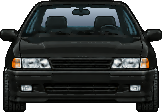
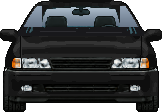
Vetor GSi: frente limpa em qualquer cor
A arte é de um carro preto: riscos de reflexo no capô, manchas na base do para-brisa, vincos
tracejados e o vidro lateral riscado nas colunas só sumiam no preto. Base do para-brisa vira
plástico preto com as palhetas, vidro lateral liso, lataria em superfícies lisas (mediana e
poucos tons) mantendo as linhas horizontais e os vincos do capô contínuos.

Claude-Session: https://claude.ai/code/session_01MLD9VR7gkmY4w6a9beZcp6

diff --git a/tools/ref/vectra_front_fix.py b/tools/ref/vectra_front_fix.py
@@ -1,0 +1,100 @@
+"""Frente do Vetor GSi limpa para qualquer cor (depois de vectra_sprites.py): a arte é de um carro
+preto e os reflexos dela (riscos no capô, manchas na base do para-brisa, vincos tracejados, o
+vidro lateral visto pelas colunas) somem no preto mas viram rabiscos em outra cor.
+- base do para-brisa (limpadores): plástico preto, fora da pintura
+- vidro lateral entre as colunas: vidro, fora da pintura
+- lataria: superfície lisa em poucos tons (mediana + faixas), mantendo as linhas horizontais
+  longas (borda do capô, para-choque) e os vincos do capô contínuos
+
+Uso: python3 tools/ref/vectra_front_fix.py src/assets/cars
+"""
+import os
+import sys
+
+import cv2
+import numpy as np
+from PIL import Image
+
+
+def main():
+    d = sys.argv[1]
+    fp, fm = os.path.join(d, 'br-vectra-front.png'), os.path.join(d, 'br-vectra-front-mask.png')
+    a = np.array(Image.open(fp).convert('RGBA'))
+    m = np.array(Image.open(fm).convert('L')) > 0
+    H, W = m.shape
+    lum = a[..., :3].astype(float).mean(axis=2)
+    # 1) base do para-brisa com os limpadores: plástico preto
+    cowl = np.zeros_like(m)
+    cowl[27:36, 18:W - 18] = True
+    cowl &= m
+    a[cowl, :3] = (24, 24, 27)
+    for y, x0, x1 in ((31, 40, 76), (32, 86, 122)):  # palhetas dos limpadores
+        a[y, x0:x1, :3] = (44, 44, 48)
+    m &= ~cowl
+    # 2) vidro lateral visto pelas colunas: os riscos claros dentro das colunas
+    side = np.zeros_like(m)
+    side[6:36, :42] = True
+    side[6:36, W - 42:] = True
+    # coluna = faixa de 3 px junto da borda de fora; o resto (os riscos) é o vidro lateral
+    dist = cv2.distanceTransform((a[..., 3] > 0).astype(np.uint8), cv2.DIST_L1, 3)
+    side[27:] = False
+    pillar_glass = side & m & (dist > 3.5)
+    a[pillar_glass, :3] = (96, 112, 130)
+    m &= ~pillar_glass
+    # o vidro lateral inteiro (entre a coluna e o para-brisa) liso, sem os riscos
+    K4 = np.array([[0, 1, 0], [1, 1, 1], [0, 1, 0]], np.uint8)
+    inner = cv2.erode((a[..., 3] > 0).astype(np.uint8), K4, iterations=2) > 0
+    glass_side = (side | pillar_glass) & ~m & inner & ~cowl & (np.abs(a[..., 2].astype(int) - a[..., 0].astype(int)) < 60)
+    gy = np.clip((np.arange(H)[:, None] - 6) / 30, 0, 1)
+    gcol = (np.array([150, 166, 184]) * (1 - gy[..., None]) + np.array([84, 98, 116]) * gy[..., None])
+    a[glass_side, :3] = gcol[np.broadcast_to(np.arange(H)[:, None], (H, W))[glass_side], 0].astype(np.uint8)
+    # 3) lataria lisa: mediana da luminância (fora da máscara preenchido pelo vizinho) e 5 tons
+    src = lum.copy()
+    known = m.astype(np.uint8)
+    _, lab = cv2.distanceTransformWithLabels(1 - known, cv2.DIST_L2, 5, labelType=cv2.DIST_LABEL_PIXEL)
+    ys, xs = np.nonzero(known)
+    idx = np.zeros(lab.max() + 1, int)
+    idx[lab[ys, xs]] = ys * W + xs
+    filled = src.ravel()[idx[lab]].reshape(H, W)
+    sm = cv2.medianBlur(filled.astype(np.uint8), 5)
+    sm = cv2.medianBlur(sm, 3).astype(float)
+    lv = np.percentile(sm[m], [8, 30, 55, 78, 94])
+    tone = lv[np.abs(sm[..., None] - lv[None, None, :]).argmin(axis=2)]
+    new = np.where(m, tone, lum)
+    # linhas horizontais longas da arte (borda do capô, frisos do para-choque) ficam
+    dark = m & (lum < sm - 6)
+    for y in range(H):
+        row = np.nonzero(m[y])[0]
+        if len(row) < 20:
+            continue
+        run = dark[y, row.min():row.max() + 1]
+        if run.mean() > 0.45:
+            new[y, row.min():row.max() + 1][run] = lum[y, row.min():row.max() + 1][run]
+    # vincos do capô: linha contínua no pixel mais escuro perto de x=20 e x=141 (linhas 36-58)
+    # (a arte tem o vinco em zigue-zague: ajusta uma reta pelos pontos mais escuros e traça)
+    for cx in (20, W - 21):
+        pts = []
+        for y in range(36, 59):
+            xs_ = np.arange(cx - 2, cx + 3)
+            if m[y, xs_].any():
+                pts.append((y, xs_[np.argmin(np.where(m[y, xs_], lum[y, xs_], 999))]))
+        if len(pts) < 5:
+            continue
+        py, px = np.array(pts).T
+        k, b = np.polyfit(py, px, 1)
+        for y in range(36, 59):
+            x = int(round(k * y + b))
+            if m[y, x]:
+                new[y, x] = lv[0] * 0.6
+                if m[y, x + 1]:
+                    new[y, x + 1] = lv[-1] if cx < W / 2 else new[y, x + 1]  # brilho do lado de dentro
+    g = np.clip(new, 0, 255).astype(np.uint8)
+    for k in range(3):
+        a[m, k] = g[m]
+    Image.fromarray(a, 'RGBA').save(fp)
+    Image.fromarray((m * 255).astype(np.uint8)).convert('1').save(fm)
+    print('frente do Vectra limpa; máscara', int(m.sum()))
+
+
+if __name__ == '__main__':
+    main()
